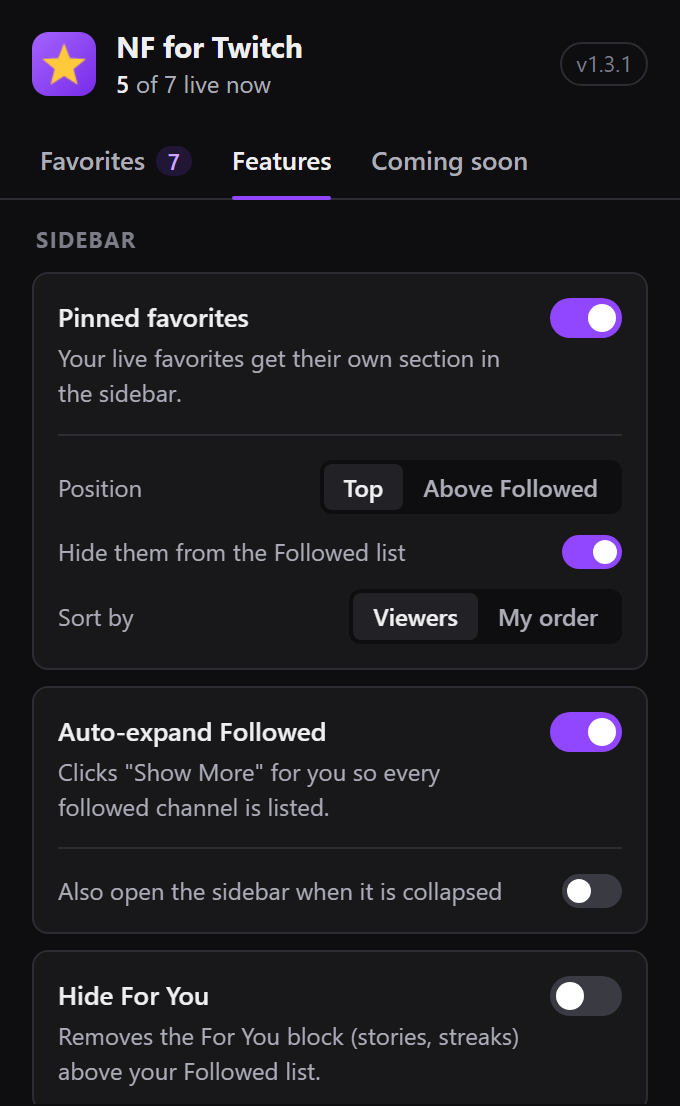
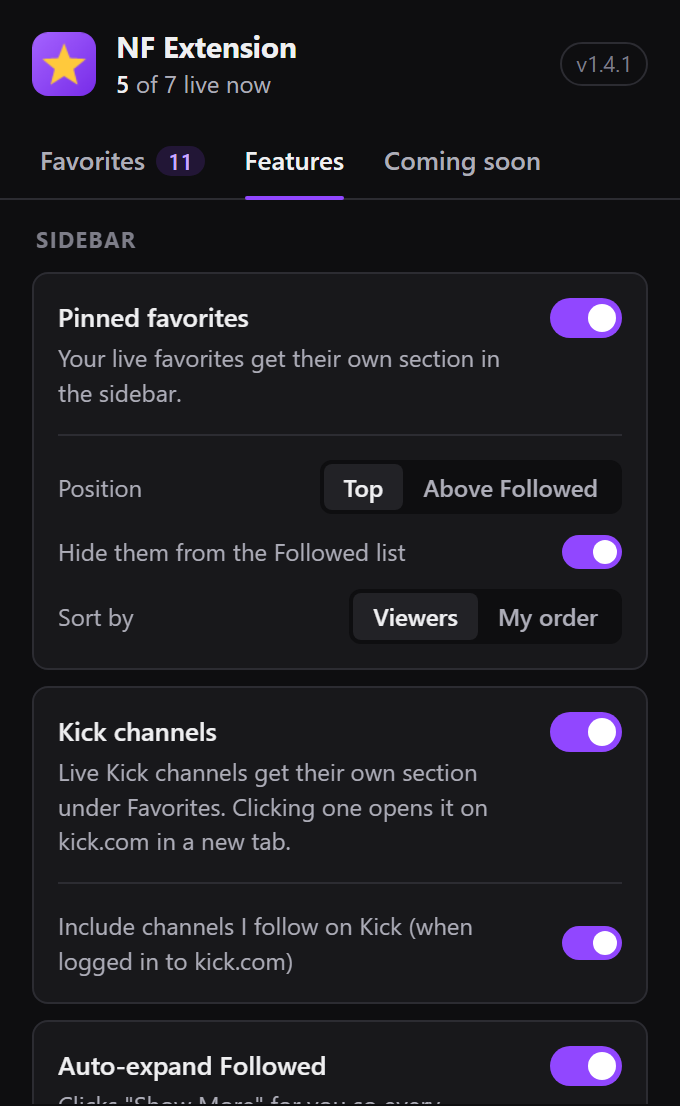
Rename to NF Extension 1.4.1
The extension is now called NF Extension, since it covers Kick as well
as Twitch, and the repository is now NF-Extension. Links, the version
badge, export file names, log tags and the popup screenshots use the new
name. Stored favorites and settings are unaffected.

diff --git a/src/popup/popup.js b/src/popup/popup.js
@@ -20,7 +20,7 @@
       emptyTitle: 'No favorites yet',
       emptyText: 'Click the ★ next to Follow on any channel, type a name above, or import a list.',
       hint: 'Drag to reorder. Live favorites show in your Twitch sidebar.',
-      file: 'nf-twitch-favorites',
+      file: 'nf-extension-twitch',
     },
     kick: {
       label: 'Kick',
@@ -31,7 +31,7 @@
       emptyTitle: 'No Kick channels added',
       emptyText: "Type a Kick name above. Channels you follow on Kick show up on their own while you're logged in to kick.com.",
       hint: 'Live Kick channels show under Favorites in your Twitch sidebar.',
-      file: 'nf-twitch-kick',
+      file: 'nf-extension-kick',
     },
   };
 

diff --git a/src/content/dom.js b/src/content/dom.js
@@ -232,11 +232,11 @@
     try {
       const res = await chrome.runtime.sendMessage({ type: 'lookup', logins, force });
       if (res?.ok) return res.users;
-      console.warn('[NF for Twitch] lookup failed:', res?.error);
+      console.warn('[NF Extension] lookup failed:', res?.error);
     } catch (err) {
       // "Extension context invalidated" happens when the extension is reloaded
       // while this tab stays open. Refreshing the tab fixes it.
-      if (NF.alive()) console.warn('[NF for Twitch]', err);
+      if (NF.alive()) console.warn('[NF Extension]', err);
     }
     return null;
   };

diff --git a/src/popup/popup.html b/src/popup/popup.html
@@ -3,14 +3,14 @@
   <head>
     <meta charset="utf-8" />
     <meta name="viewport" content="width=device-width, initial-scale=1" />
-    <title>NF for Twitch</title>
+    <title>NF Extension</title>
     <link rel="stylesheet" href="popup.css" />
   </head>
   <body>
     <header class="top">
       <img class="logo" src="../../icons/icon48.png" alt="" width="32" height="32" />
       <div class="brand">
-        <h1>NF for Twitch</h1>
+        <h1>NF Extension</h1>
         <p id="summary" class="summary">Pin your favorite streamers</p>
       </div>
       <span id="version" class="version"></span>

diff --git a/src/content/features/starButton.js b/src/content/features/starButton.js
@@ -69,7 +69,7 @@
       // Queued in order, so quick double clicks end in the state of the last click.
       await NF.storage.setFavorite(login, on);
     } catch (err) {
-      if (NF.alive()) console.warn('[NF for Twitch] could not save favorite:', err);
+      if (NF.alive()) console.warn('[NF Extension] could not save favorite:', err);
       try {
         load(await NF.storage.getFavorites()); // show what is really saved
       } catch {}

diff --git a/src/content/content.css b/src/content/content.css
@@ -1,5 +1,5 @@
 /*
- * NF for Twitch styles injected into twitch.tv. Colors come from Twitch's own CSS
+ * NF Extension styles injected into twitch.tv. Colors come from Twitch's own CSS
  * variables (with dark-theme fallbacks), so light and dark themes both work.
  */
 

diff --git a/src/content/features/pinned.js b/src/content/features/pinned.js
@@ -19,7 +19,7 @@
     try {
       await update(force);
     } catch (err) {
-      if (NF.alive()) console.warn('[NF for Twitch] favorites refresh failed:', err);
+      if (NF.alive()) console.warn('[NF Extension] favorites refresh failed:', err);
     }
   }
 

diff --git a/src/content/features/kick.js b/src/content/features/kick.js
@@ -20,7 +20,7 @@
     try {
       await update(force);
     } catch (err) {
-      if (NF.alive()) console.warn('[NF for Twitch] Kick refresh failed:', err);
+      if (NF.alive()) console.warn('[NF Extension] Kick refresh failed:', err);
     }
   }
 

diff --git a/src/content/main.js b/src/content/main.js
@@ -21,7 +21,7 @@
           feature.update?.(settings);
         }
       } catch (err) {
-        console.error(`[NF for Twitch] ${id}:`, err);
+        console.error(`[NF Extension] ${id}:`, err);
       }
     }
   }

diff --git a/README.md b/README.md
@@ -1,15 +1,15 @@
 <p align="center">
-  <img src="icons/icon128.png" width="96" height="96" alt="NF for Twitch icon">
+  <img src="icons/icon128.png" width="96" height="96" alt="NF Extension icon">
 </p>
 
-<h1 align="center">NF for Twitch</h1>
+<h1 align="center">NF Extension</h1>
 
 <p align="center">
   Pin your favorite Twitch and Kick streamers to the top of Twitch's sidebar, and tidy up the rest of the site.
 </p>
 
 <p align="center">
-  <img alt="Version" src="https://img.shields.io/github/manifest-json/v/Nasseralenezd/nf-twitch?color=9146FF&label=version">
+  <img alt="Version" src="https://img.shields.io/github/manifest-json/v/Nasseralenezd/NF-Extension?color=9146FF&label=version">
   <img alt="Manifest V3" src="https://img.shields.io/badge/manifest-v3-9146FF">
   <img alt="Chrome, Edge, Brave" src="https://img.shields.io/badge/browsers-Chrome%20%7C%20Edge%20%7C%20Brave-555">
   <img alt="No build step" src="https://img.shields.io/badge/build-none-555">
@@ -17,7 +17,7 @@
 
 ---
 
-NF for Twitch is a lightweight browser extension for [twitch.tv](https://www.twitch.tv). It keeps the streamers you care about in their own **★ Favorites** section of the sidebar, shows which of your **Kick** channels are live right below it, and adds a set of optional quality-of-life tweaks for the sidebar, the player and chat.
+NF Extension is a lightweight browser extension for [twitch.tv](https://www.twitch.tv). It keeps the streamers you care about in their own **★ Favorites** section of the sidebar, shows which of your **Kick** channels are live right below it, and adds a set of optional quality-of-life tweaks for the sidebar, the player and chat.
 
 Everything is controlled from the toolbar popup, and changes apply to open Twitch tabs instantly, without a reload.
 
@@ -94,15 +94,15 @@ These need **Shortcuts & screenshot** switched on. They work on any page with a 
 
 The extension isn't on the Chrome Web Store yet. Installing it yourself takes about a minute.
 
-1. Download **`nf-for-twitch-<version>.zip`** from the [latest release](https://github.com/Nasseralenezd/nf-twitch/releases/latest) and extract it.<br>
+1. Download **`nf-extension-<version>.zip`** from the [latest release](https://github.com/Nasseralenezd/NF-Extension/releases/latest) and extract it.<br>
    Or get the source: **Code → Download ZIP**, or clone it:
    ```bash
-   git clone https://github.com/Nasseralenezd/nf-twitch.git
+   git clone https://github.com/Nasseralenezd/NF-Extension.git
    ```
 2. Open your browser's extensions page: `chrome://extensions`, `edge://extensions` or `brave://extensions`.
 3. Turn on **Developer mode**.
 4. Click **Load unpacked** and select the folder that contains `manifest.json`.
-5. Optional: pin NF for Twitch to the toolbar (puzzle-piece icon → pin).
+5. Optional: pin NF Extension to the toolbar (puzzle-piece icon → pin).
 
 Requires a Chromium-based browser, version 102 or newer.
 
@@ -129,7 +129,7 @@ When you already have favorites, you choose whether to add the new ones or repla
 
 ## Privacy
 
-NF for Twitch has no account, no analytics and no tracking.
+NF Extension has no account, no analytics and no tracking.
 
 - To show live status, viewer count, game and avatar, the extension sends the **names of your favorite channels** to Twitch (`gql.twitch.tv`, no cookies or sign-in) and the names on your Kick list to Kick (`kick.com`).
 - To include the channels you follow on Kick, it reads Kick's `session_token` login cookie in your browser and sends it **only to kick.com**, to request your followed channels. You can turn this off in the popup.
@@ -176,7 +176,7 @@ src/
 
 ## Troubleshooting
 
-- **A feature stopped working after a Twitch update.** Twitch changes its page now and then. Every selector the extension depends on is in the `SEL` table at the top of [`src/content/dom.js`](src/content/dom.js), plus a few marked rules in [`content.css`](src/content/content.css). Please [open an issue](https://github.com/Nasseralenezd/nf-twitch/issues) with what broke.
+- **A feature stopped working after a Twitch update.** Twitch changes its page now and then. Every selector the extension depends on is in the `SEL` table at the top of [`src/content/dom.js`](src/content/dom.js), plus a few marked rules in [`content.css`](src/content/content.css). Please [open an issue](https://github.com/Nasseralenezd/NF-Extension/issues) with what broke.
 - **Nothing happens after updating the extension.** Refresh the Twitch tab; tabs opened before the update still run the old version.
 - **Favorites show no live status.** Live status comes from Twitch's undocumented GraphQL endpoint (the same one BetterTTV and FrankerFaceZ use). If Twitch changes it, the Favorites section stops updating until the extension is fixed.
 - **The Kick section is empty or missing your follows.** Kick data comes from the JSON endpoints kick.com's own pages use (Kick's official API needs a developer key). Make sure you're logged in to kick.com in the same browser, and that **Include channels I follow on Kick** is on. Kick can change these endpoints or block them at any time.
@@ -187,7 +187,7 @@ See [CHANGELOG.md](CHANGELOG.md).
 
 ## Disclaimer
 
-NF for Twitch is an independent project. It is not affiliated with, endorsed by, or sponsored by Twitch Interactive, Inc. or Kick. Twitch and Kick are trademarks of their respective owners.
+NF Extension is an independent project. It is not affiliated with, endorsed by, or sponsored by Twitch Interactive, Inc. or Kick. Twitch and Kick are trademarks of their respective owners.
 
 ## License
 

diff --git a/PRIVACY.md b/PRIVACY.md
@@ -2,7 +2,7 @@
 
 _Last updated: October 21, 2026_
 
-NF for Twitch is a browser extension that adds features to twitch.tv. This policy explains what data it handles. In short: it collects nothing about you, and it sends nothing to its author.
+NF Extension is a browser extension that adds features to twitch.tv. This policy explains what data it handles. In short: it collects nothing about you, and it sends nothing to its author.
 
 ## What the extension stores
 
@@ -59,4 +59,4 @@ If this policy changes, the new version will be published in this repository wit
 
 ## Contact
 
-Questions? Open an issue at [github.com/Nasseralenezd/nf-twitch/issues](https://github.com/Nasseralenezd/nf-twitch/issues).
+Questions? Open an issue at [github.com/Nasseralenezd/NF-Extension/issues](https://github.com/Nasseralenezd/NF-Extension/issues).

diff --git a/CHANGELOG.md b/CHANGELOG.md
@@ -1,5 +1,10 @@
 # Changelog
 
+## 1.4.1 — 2026-10-21
+
+- Renamed to **NF Extension**, now that it covers Kick too. The repository moved to github.com/Nasseralenezd/NF-Extension (old links redirect).
+- Your favorites and settings carry over unchanged.
+
 ## 1.4.0 — 2026-10-21
 
 - **Kick channels**: a Kick section under ★ Favorites in the Twitch sidebar, showing which Kick channels are live. It lists the channels you add in the popup, plus the channels you follow on Kick while you're logged in to kick.com. Clicking one opens it on kick.com in a new tab.
